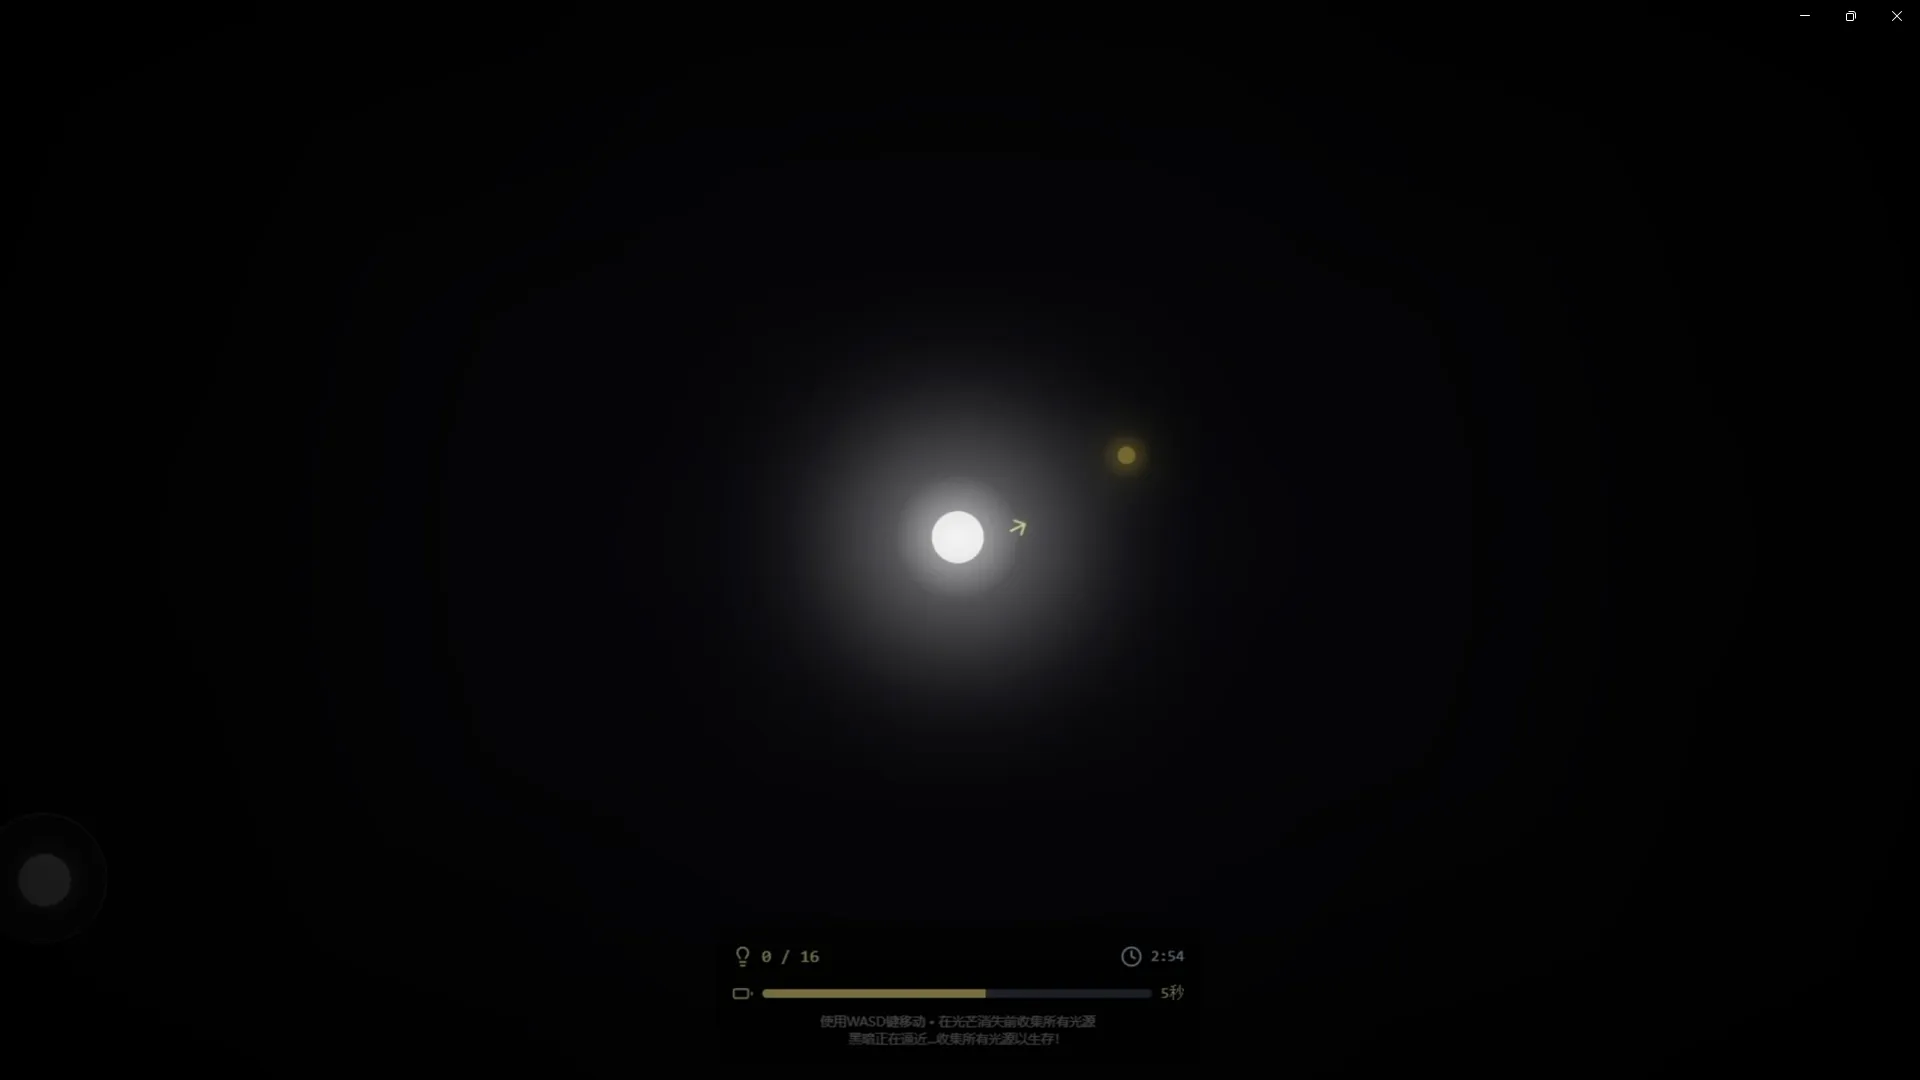
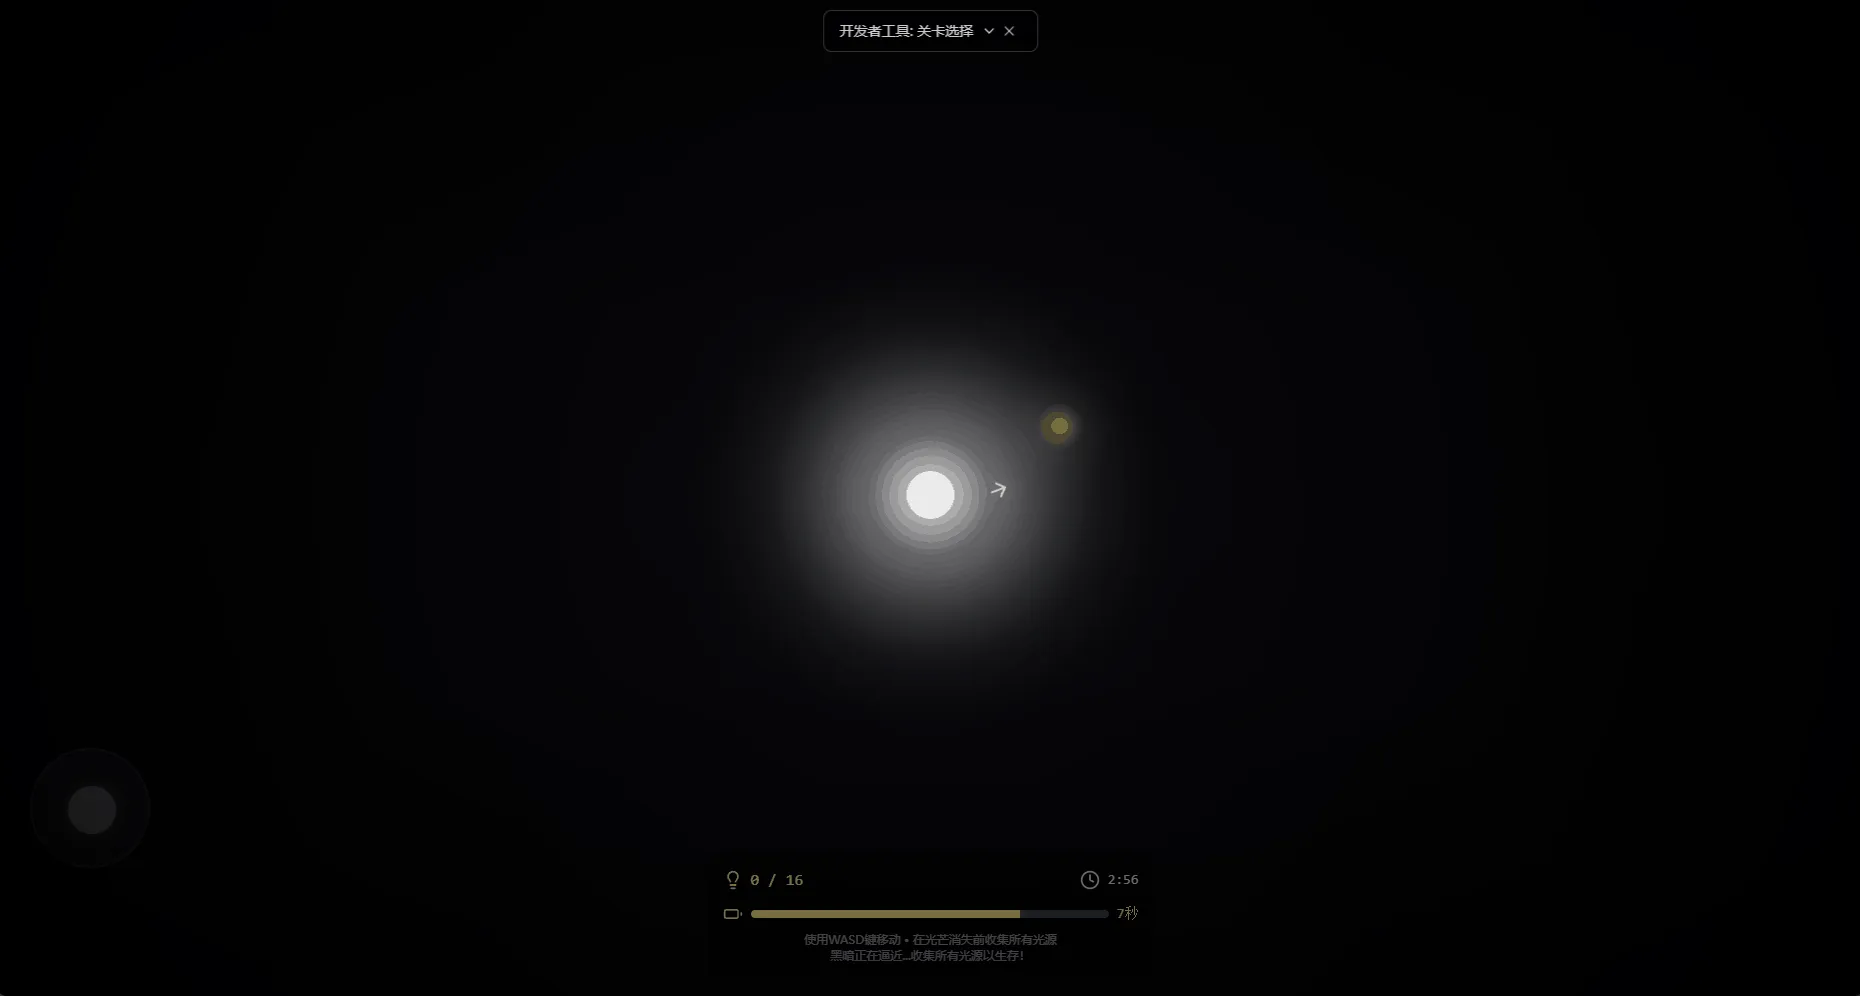
Replace large GIFs with single-frame WebP, fix EdgeOne limit

diff --git a/src/data/sensitive-light.ts b/src/data/sensitive-light.ts
@@ -111,10 +111,10 @@ export const sensitiveLightData: ProjectShowcaseData = {
   video: "//player.bilibili.com/player.html?bvid=BV1qaMA6tEsD&autoplay=0",
   videoPoster: "/assets/projects/sensitive-light/cover.webp",
   onlineImages: [
-    { src: "/assets/projects/sensitive-light/stage-one.gif", label: "01 / FEEL THE PRESSURE", alt: "第一关动态演示" },
-    { src: "/assets/projects/sensitive-light/stage-two.gif", label: "02 / UNDERSTAND", alt: "第二关动态演示" },
-    { src: "/assets/projects/sensitive-light/stage-two-blackhole.gif", label: "02 / BLACKHOLE", alt: "第二关黑洞效果" },
-    { src: "/assets/projects/sensitive-light/stage-three.gif", label: "03 / RESPOND", alt: "第三关动态演示" },
+    { src: "/assets/projects/sensitive-light/stage-one.webp", label: "01 / FEEL THE PRESSURE", alt: "第一关动态演示" },
+    { src: "/assets/projects/sensitive-light/stage-two.webp", label: "02 / UNDERSTAND", alt: "第二关动态演示" },
+    { src: "/assets/projects/sensitive-light/stage-two-blackhole.webp", label: "02 / BLACKHOLE", alt: "第二关黑洞效果" },
+    { src: "/assets/projects/sensitive-light/stage-three.webp", label: "03 / RESPOND", alt: "第三关动态演示" },
   ],
   images: [],
 };